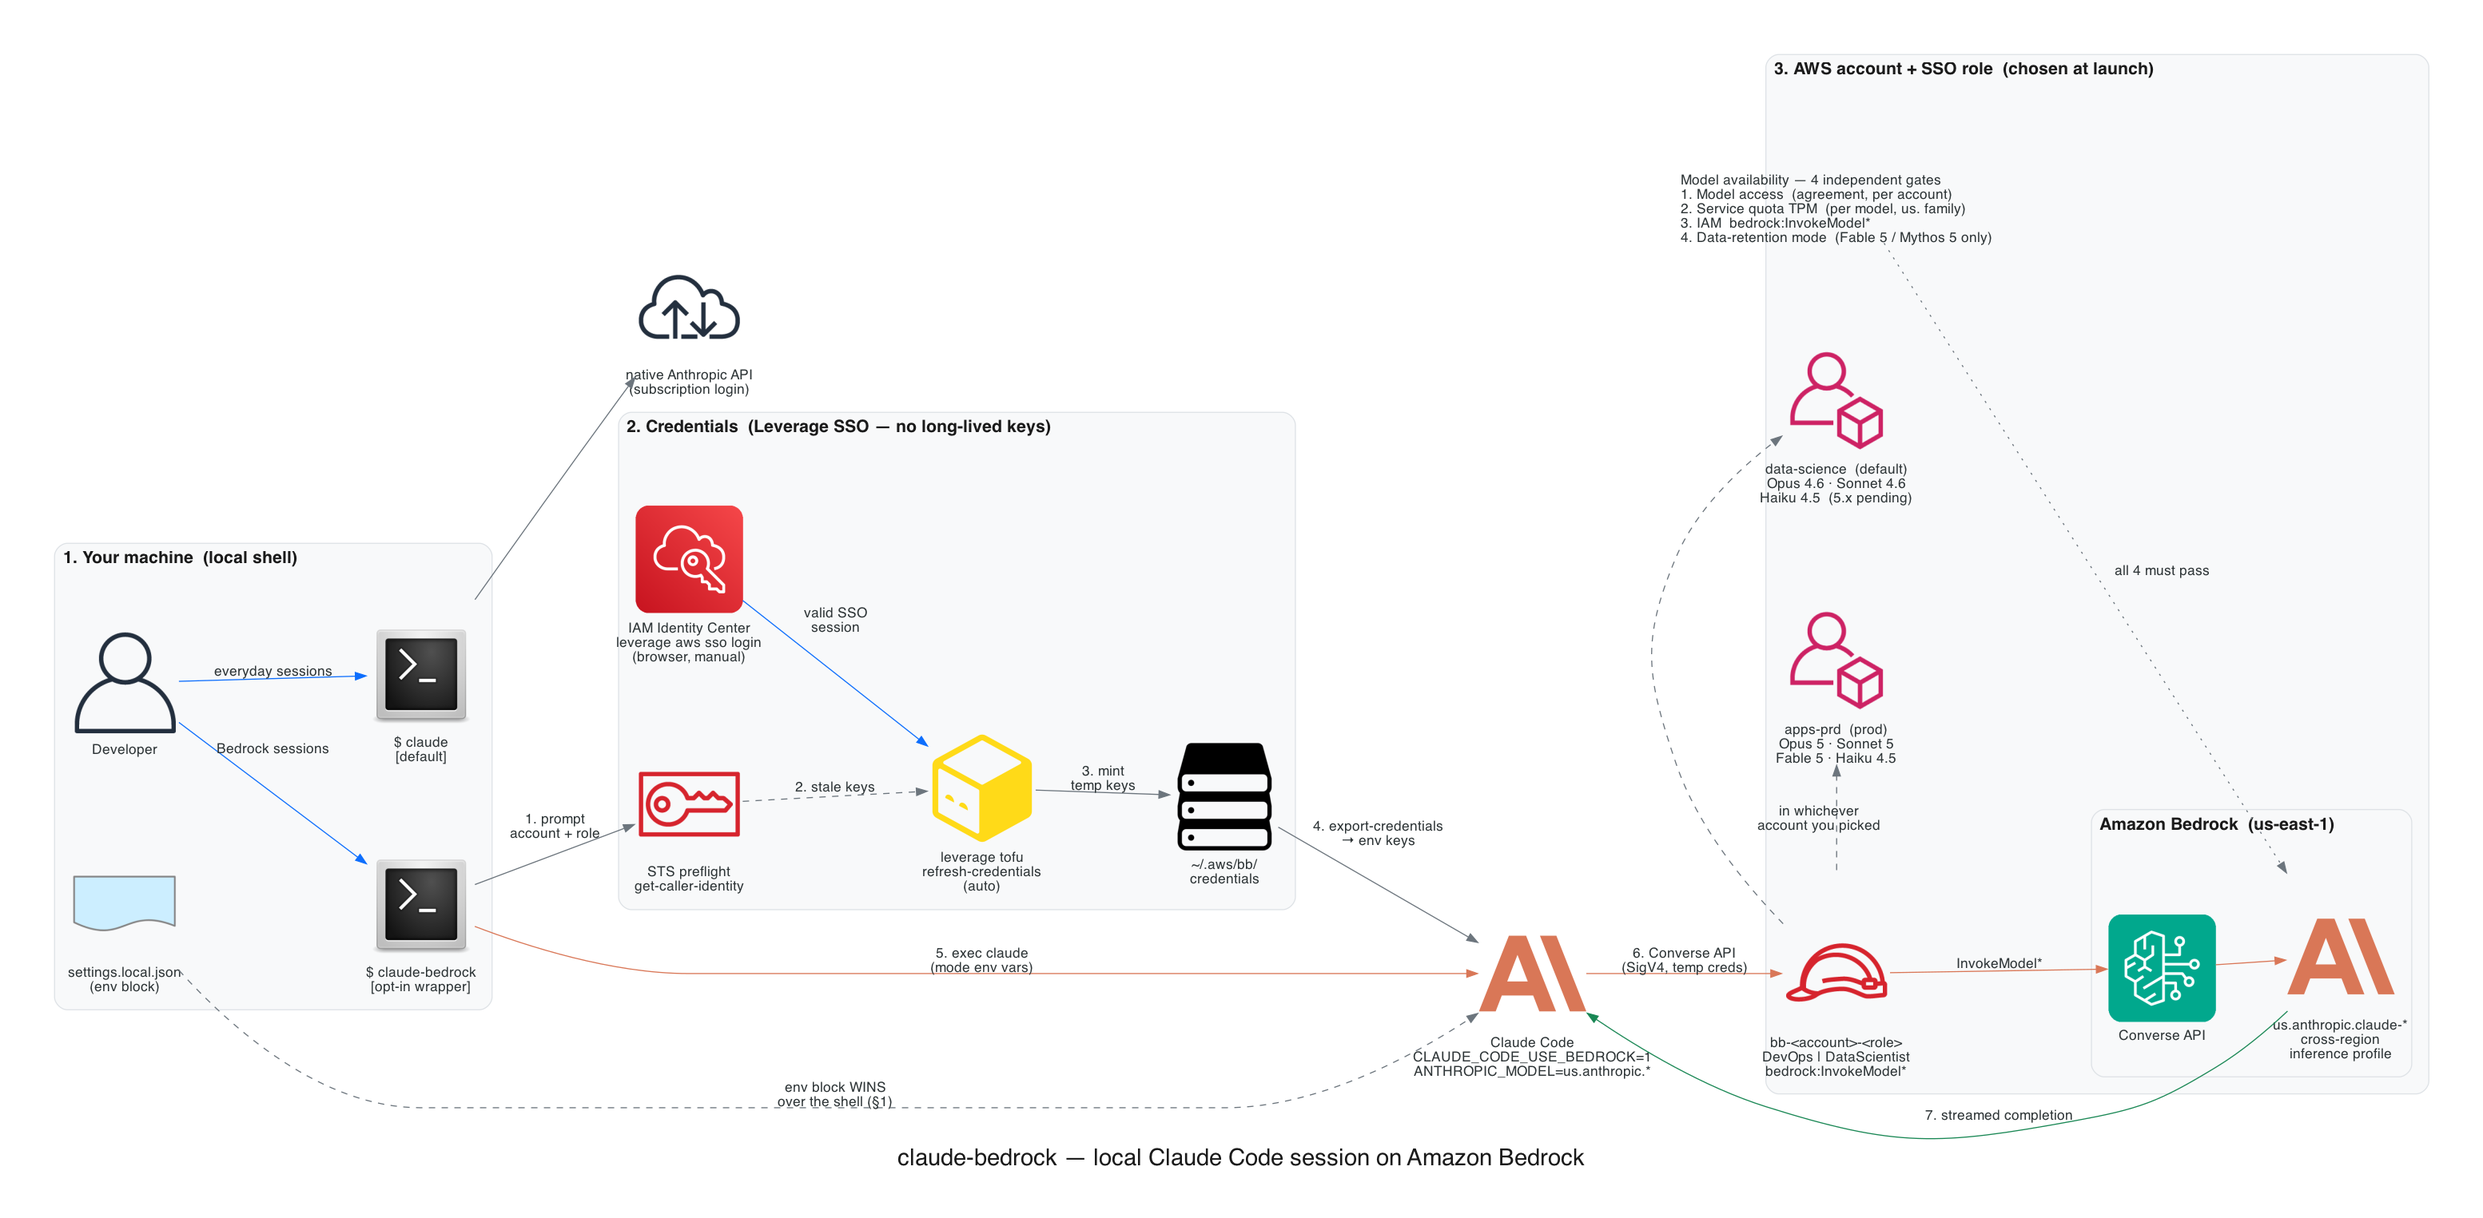
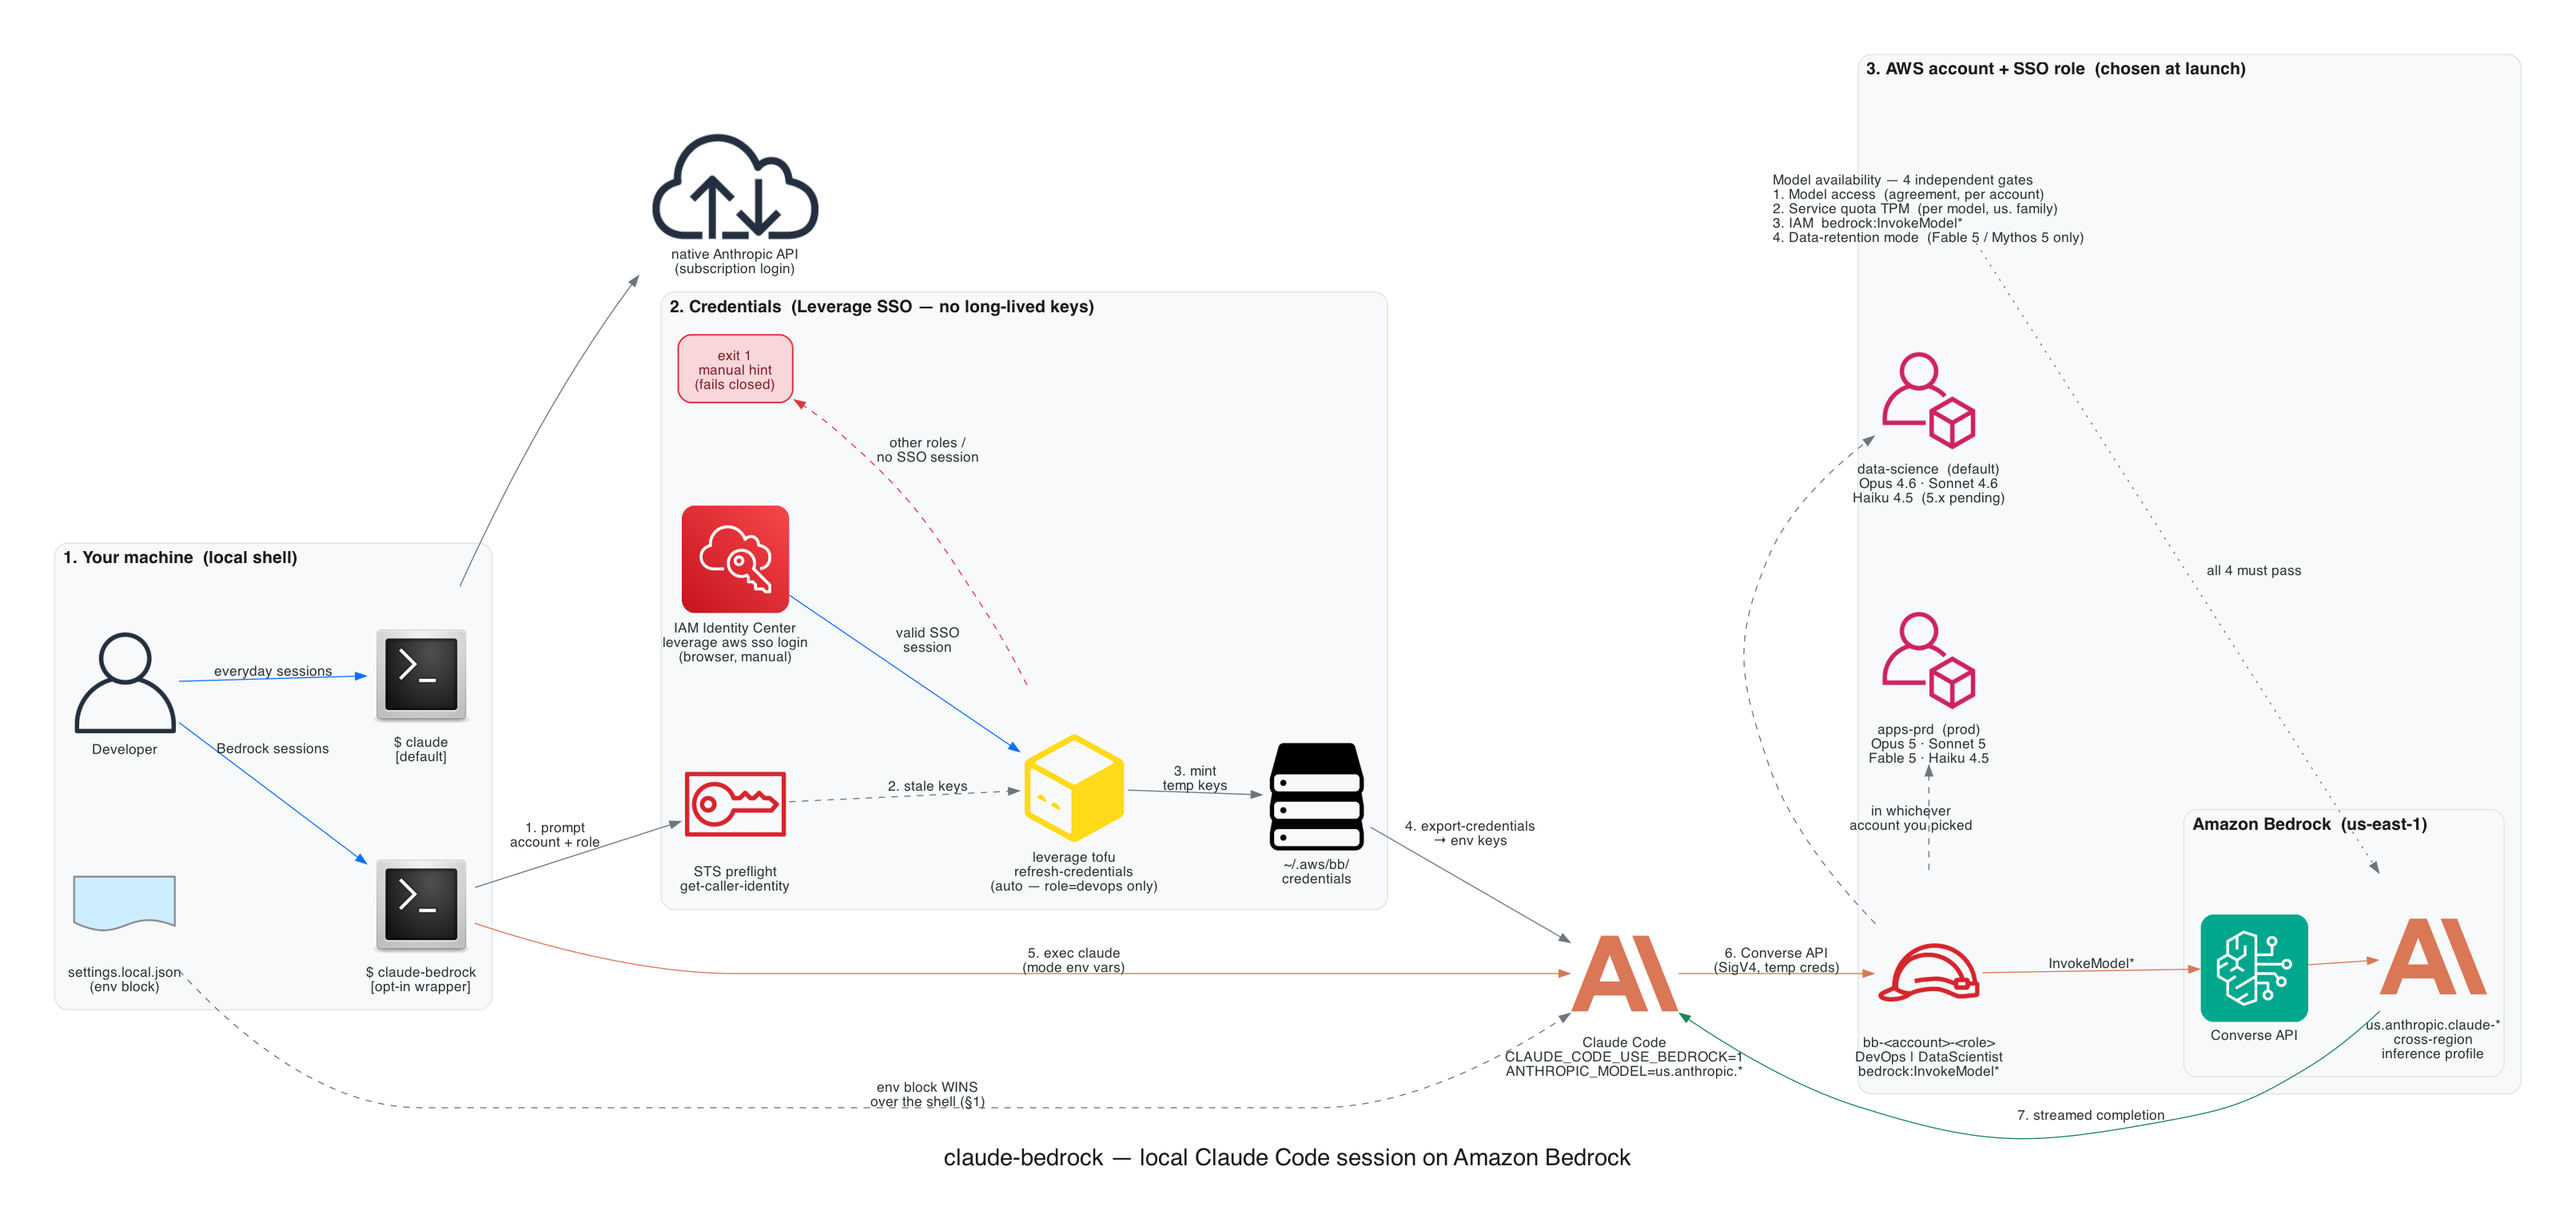
docs(ai-sdlc): show the DevOps-only credential auto-refresh in the diagram
The §0 step table and the diagram both described the credential auto-refresh
as unconditional, but the launcher gates it on `role=devops` (the refresh
layer mints that account's DevOps profile). A DataScientist session with
stale temp keys does not refresh automatically — it exits with the manual
hint. §3.2 already carried the caveat; §0 is what a reader hits first.

- add the fail-closed abort node and its red edge off the refresh step, so
  the "fails closed" callout under the diagram has a visible counterpart
- label the refresh node "auto — role=devops only"
- qualify the step 2–3 table row with the same condition

Also fixes two rendering defects found while re-rendering: the native
Anthropic API node's label overflowed its fixed 1.4in box, so graphviz
clipped the incoming arrowhead onto the text; and the icon-less abort node
inherited the diagram-wide labelloc=b/fixedsize defaults meant for captions
under an icon, pinning its text to the box border.

diff --git a/docs/diagrams/claude-bedrock-local.py b/docs/diagrams/claude-bedrock-local.py
@@ -10,7 +10,10 @@ inference profile, subject to the four model-availability gates.
 Plain `claude` stays on the native Anthropic API — drawn as the parallel default
 path so the dual-mode nature of the setup is obvious. The dashed
 `settings.local.json` edge is the precedence hazard (a settings `env` block
-overrides the wrapper's exports), not a step in the flow.
+overrides the wrapper's exports), not a step in the flow. The red edge off the
+refresh node is the fail-closed abort: the auto-refresh only covers
+`role=devops`, so any other role (or an expired SSO session) exits with the
+manual hint instead of reaching step 4.
 
 Companion to docs/ai-sdlc/claude-code-bedrock.md §0; the step numbers, cluster
 names and per-account model lists track that doc (§3.1-§5).
@@ -32,7 +35,7 @@ simple-icons.org, rasterized to 512px PNGs under docs/diagrams/icons/.
 
 import os
 
-from diagrams import Diagram, Cluster, Edge
+from diagrams import Diagram, Cluster, Edge, Node
 from diagrams.aws.management import OrganizationsAccount
 from diagrams.aws.ml import Bedrock
 from diagrams.aws.security import IAMAWSSts, IAMRole, SingleSignOn
@@ -84,6 +87,8 @@ C_AUTO = "#6c757d"          # grey   — automatic / launcher-driven steps
 C_HUMAN = "#0d6efd"         # blue   — human actions
 C_CLAUDE = "#d97757"        # orange — Anthropic / Bedrock inference path
 C_OK = "#198754"            # green  — successful response
+# Extends the house palette with Bootstrap's danger red, for the one path that aborts.
+C_STOP = "#dc3545"          # red    — launcher exits (fails closed)
 
 with Diagram(
     "claude-bedrock — local Claude Code session on Amazon Bedrock",
@@ -103,17 +108,45 @@ with Diagram(
         settings = Document("settings.local.json\n(env block)")
 
     # The native (non-Bedrock) default path — untouched by this setup.
-    anthropic_api = Internet("native Anthropic API\n(subscription login)")
+    # width: diagrams pins every node to a fixed 1.4in box, so a label wider than that
+    # overflows it — and graphviz clips incoming edges to the *box*, landing this node's
+    # arrowhead on top of the text. Widen the box to enclose the label; imagescale keeps
+    # the icon's aspect ratio, so it renders at the same size as its siblings.
+    anthropic_api = Internet("native Anthropic API\n(subscription login)", width="2.6")
 
     # ---------- 2. Credentials ----------
     with Cluster("2. Credentials  (Leverage SSO — no long-lived keys)", graph_attr=cluster_attr):
         sts = IAMAWSSts("STS preflight\nget-caller-identity")
         sso = SingleSignOn("IAM Identity Center\nleverage aws sso login\n(browser, manual)")
+        # The auto-refresh is gated on role=devops in the launcher: that layer mints the
+        # DevOps profile, so any other role must already have valid creds or it exits.
         refresh = Custom(
-            "leverage tofu\nrefresh-credentials\n(auto)",
+            "leverage tofu\nrefresh-credentials\n(auto — role=devops only)",
             f"{ICONS}/opentofu.png",
         )
         creds = Storage("~/.aws/bb/\ncredentials")
+        # Raw Node (no icon) so fillcolor/color actually apply: the flowchart StartEnd
+        # terminator is a fixed pale-green raster image, which ignores them and clashes
+        # with the palette. This is an outcome, not a component — a shape, not a logo.
+        halt = Node(
+            "exit 1\nmanual hint\n(fails closed)",
+            shape="box",
+            style="rounded,filled",
+            fillcolor="#f8d7da",
+            color=C_STOP,
+            fontcolor="#842029",
+            fontname="Helvetica",
+            fontsize="13",
+            penwidth="1.5",
+            # The diagram-wide node defaults (labelloc=b, fixedsize=true, 1.4x1.4) exist to
+            # hang a caption under an icon; without an icon they pin the text to the bottom
+            # border of a fixed frame. Centre it and let the box size to the text.
+            labelloc="c",
+            fixedsize="false",
+            width="0",
+            height="0",
+            margin="0.22,0.16",
+        )
 
     # ---------- Claude Code in Bedrock mode ----------
     # Un-clustered on purpose: it runs on your machine, but sits after the credentials in
@@ -163,6 +196,13 @@ with Diagram(
     sts >> Edge(label="2. stale keys", style="dashed", color=C_AUTO) >> refresh
     sso >> Edge(label="valid SSO\nsession", color=C_HUMAN) >> refresh
     refresh >> Edge(label="3. mint\ntemp keys", color=C_AUTO) >> creds
+    # Non-DevOps roles (and an expired SSO session) never reach step 4 — they exit here.
+    refresh >> Edge(
+        label="other roles /\nno SSO session",
+        style="dashed",
+        color=C_STOP,
+        constraint="false",
+    ) >> halt
     creds >> Edge(label="4. export-credentials\n→ env keys", color=C_AUTO) >> claude_code
     launcher >> Edge(label="5. exec claude\n(mode env vars)", color=C_CLAUDE) >> claude_code
 

diff --git a/docs/ai-sdlc/claude-code-bedrock.md b/docs/ai-sdlc/claude-code-bedrock.md
@@ -34,7 +34,7 @@ session; **6–7** are the inference call:
 | # | What happens | Detail |
 | --- | --- | --- |
 | 1 | The wrapper prompts for **account + role** → sets `AWS_PROFILE=bb-<account>-<role>`, then runs an STS preflight | §3.1 |
-| 2–3 | Stale temp keys → `leverage tofu refresh-credentials` mints fresh ones into `~/.aws/bb/credentials` | §3.2 |
+| 2–3 | Stale temp keys → `leverage tofu refresh-credentials` mints fresh ones into `~/.aws/bb/credentials`. **`role=devops` only** — that layer mints the DevOps profile, so any other role needs its creds already minted, else the launcher exits with the manual hint | §3.2 |
 | 4 | `aws configure export-credentials` materializes that profile as **env keys** for the session | §1 |
 | 5 | `exec claude` with `CLAUDE_CODE_USE_BEDROCK=1`, `ANTHROPIC_MODEL`, and the `/model` tier slots | §3.3 |
 | 6 | Claude Code calls the Bedrock **Converse API** (SigV4) as the account's SSO role | §4 |
